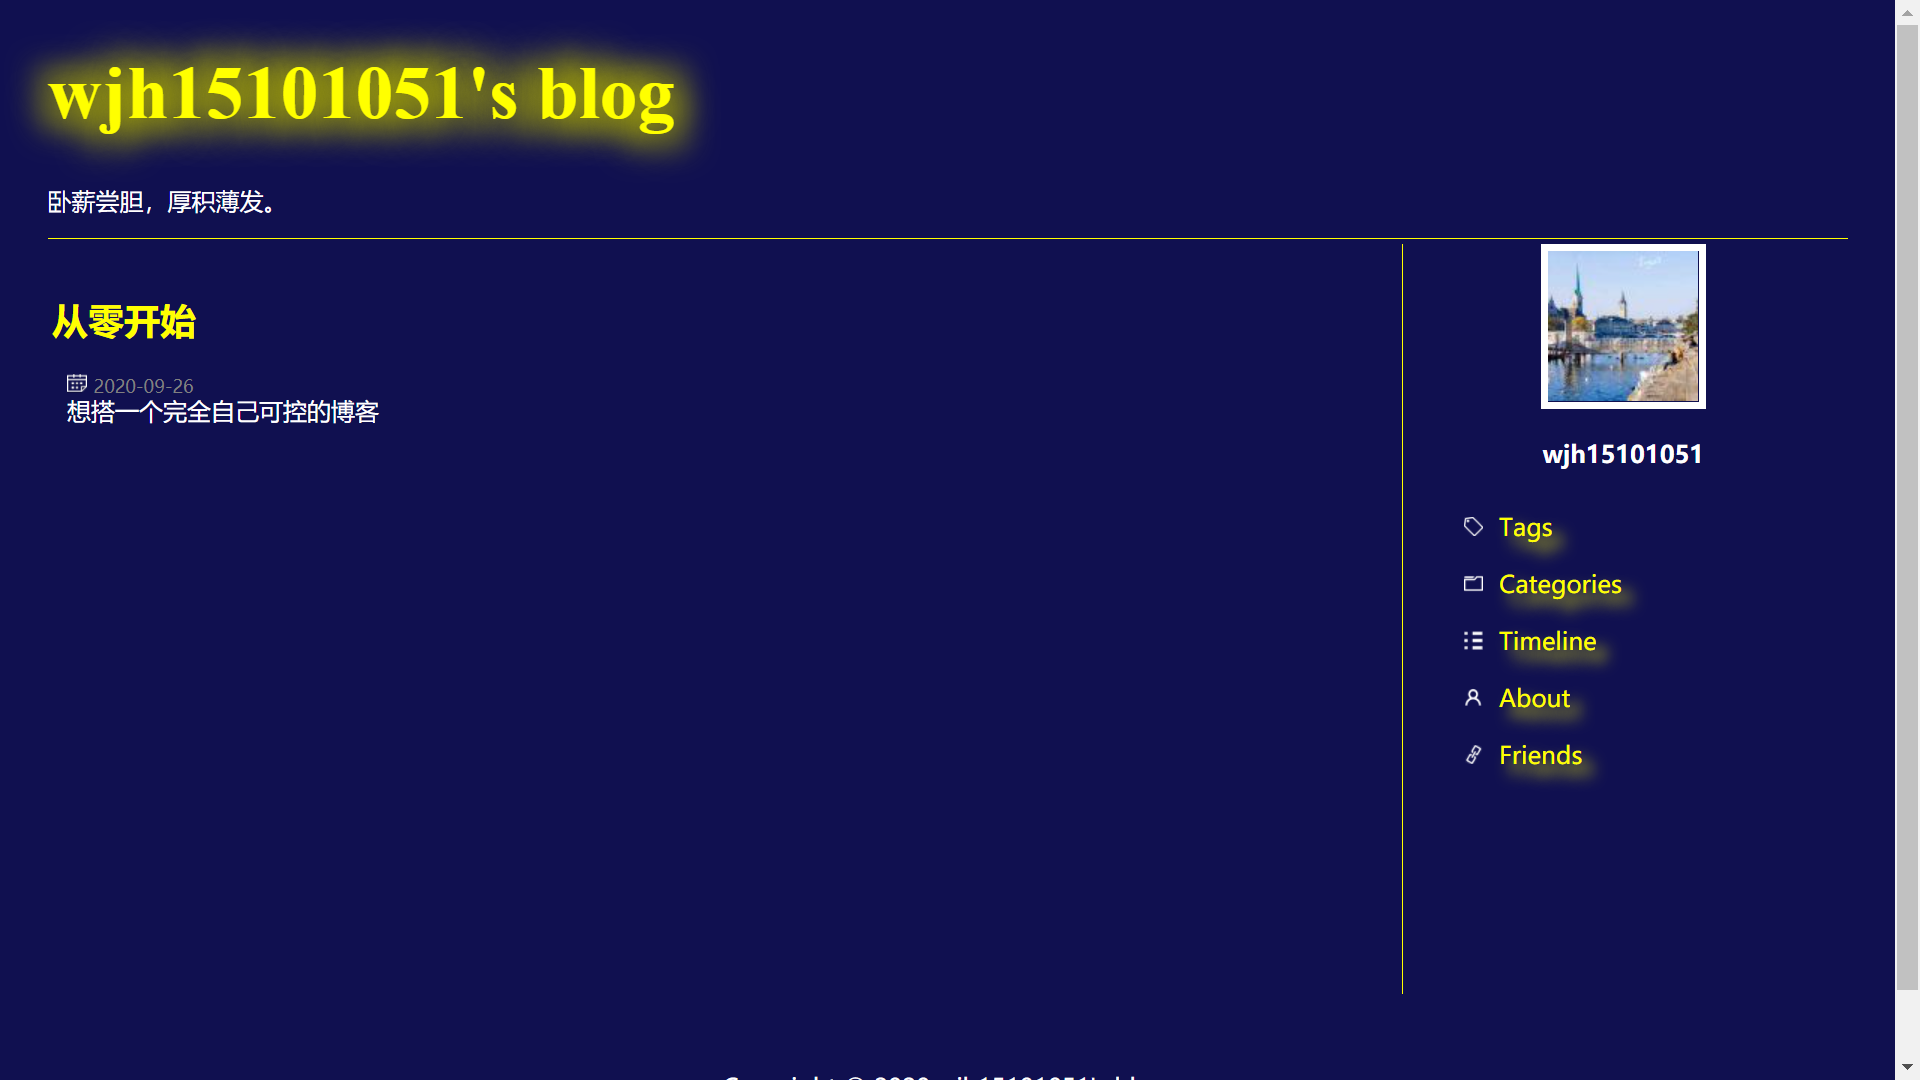
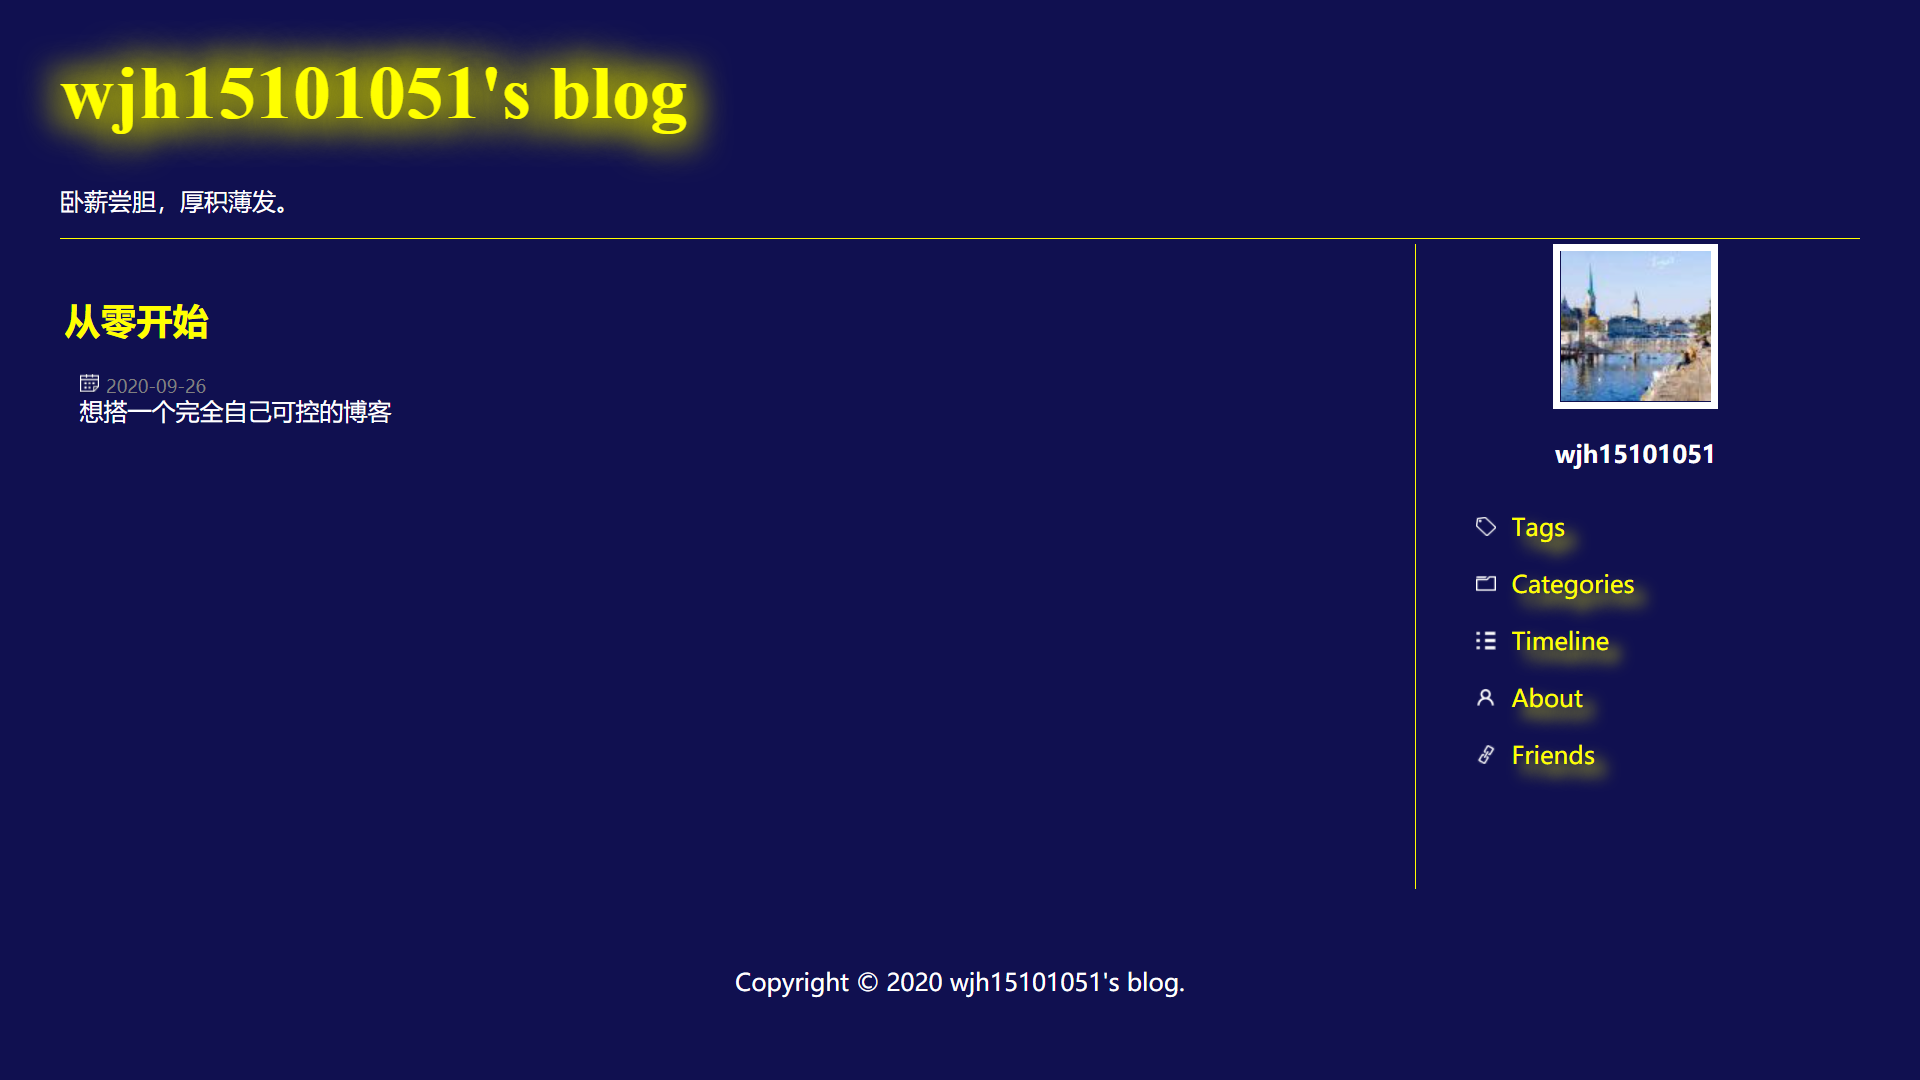
3.0.4

diff --git a/index.html b/index.html
@@ -19,7 +19,7 @@
     .c5{background-color: #c0392b;color:#FFF;}
     .c6{background-color: #999999;color:#FFF;}
     .cnightsky{background-color: #101050;color:#FFF;}
-    .ph-500{min-height: 500px;}/*用于占位*/
+    .ph-430{min-height: 430px;}/*用于占位*/
     .ph-50{min-height: 50px;}/*用于占位*/
     .ph-100{min-height: 100px;}/*用于占位*/
     .ph-200{min-height: 200px;}/*用于占位*/
@@ -81,7 +81,7 @@
       </div>
     </div>
     <div class="pure-u-3-4">
-      <div class="cnightsky ph-500">
+      <div class="cnightsky ph-430">
         <div id="BlogDisplay">
           <h2>
             <a href="https://wjh15101051.github.io/archives/BuildTheBlog">从零开始</a>
@@ -96,7 +96,7 @@
       </div>
     </div>
     <div class="pure-u-1-4"><!-- style="border-left: solid 2px white"-->
-      <div class="cnightsky ph-500 mg" style="border-left: solid 1px #FFFF00">
+      <div class="cnightsky ph-430 mg" style="border-left: solid 1px #FFFF00">
         <div style="text-align:center;">
           <img id="avator" src="https://thirdqq.qlogo.cn/g?b=oidb&k=Na2UDmDuiczUXo8qKOt9KeQ&s=100&t=1594218028">
           <br><br>

diff --git a/archives/BuildTheBlog.html b/archives/BuildTheBlog.html
@@ -21,7 +21,7 @@
   <p>5、增加了Tags、Categories、Timeline、About并配上了图标，添加了阴影效果，但并没有添加页面</p>
   <p>6、增加了Friends友链点击展开效果并挂上了友链</p>
   <p><del>感觉已经很像真的了</del></p>
-  <img src="http://pic.yupoo.com/wjh15101051/5dec7b87/8fd9726c.png"  width="960px" height="540px">
+  <img src="http://pic.yupoo.com/wjh15101051/054d803d/269ff5aa.png"  width="960px" height="540px">
 
   <h2>2020/09/27 v2.0</h2>
   <p>修改了一下首页</p>
